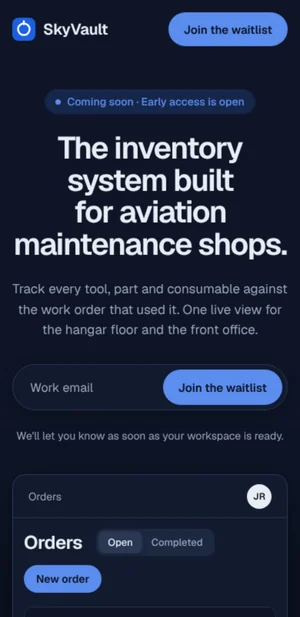
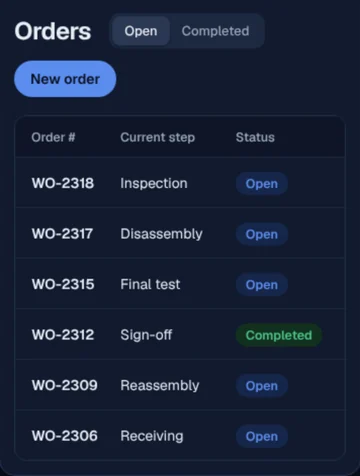
SkyVault card: product screens in a real phone frame, COMING SOON
- Shows the product, not the marketing headline: the Orders screen
  (shop sidebar, work-order table, live checkout toast) in the browser
  frame, and the app's phone Orders list in front of it.
- The phone is a real device frame: black bezel, rounded corners,
  dynamic island and a status bar that scales with the phone.
- Status: COMING SOON (matches the getskyvault.app homepage).

Claude-Session: https://claude.ai/code/session_01VC16346eymkJY2U4srLLXH

diff --git a/src/journey/Journey.css b/src/journey/Journey.css
@@ -474,9 +474,24 @@ body {
 
 /* real screenshots in the browser / phone frames */
 .j-shot-pair .j-mock-browser { display: flex; flex-direction: column; }
-.j-shot-pair .j-mock-browser img { flex: 1; min-height: 0; width: 100%; object-fit: cover; object-position: top; display: block; }
-.j-shot-pair .j-mock-phone { padding: 3px; top: 24%; }
-.j-shot-pair .j-mock-phone img { width: 100%; height: 100%; border-radius: 9px; object-fit: cover; object-position: top; display: block; }
+.j-shot-pair .j-mock-browser img { flex: 1; min-height: 0; width: 100%; object-fit: cover; object-position: left top; display: block; }
+/* a phone in a real device frame: black bezel, dynamic island, status bar */
+.j-device {
+  position: absolute; right: 7%; top: 18%; width: 25%; aspect-ratio: 9 / 19.5; box-sizing: border-box; padding: 3.5%;
+  border-radius: 18% / 8.5%; background: #05070b; container-type: inline-size;
+  box-shadow: 0 0 0 1px rgba(255, 255, 255, 0.16), 0 14px 32px rgba(0, 0, 0, 0.6);
+}
+.j-device-screen { position: relative; height: 100%; border-radius: 14% / 6.6%; overflow: hidden; background: #111a2e; display: flex; flex-direction: column; }
+.j-device-status {
+  position: relative; flex: none; height: 9%; display: flex; align-items: center; justify-content: space-between; padding: 0 9%;
+  font: 600 7cqw/1 var(--j-mono); color: #e8eefc; /* scales with the phone */
+}
+.j-device-island { position: absolute; left: 50%; top: 24%; width: 30%; height: 46%; transform: translateX(-50%); border-radius: 99px; background: #000; }
+.j-device-icons { display: flex; align-items: flex-end; gap: 0.8cqw; }
+.j-device-icons b { width: 1.6cqw; background: #e8eefc; border-radius: 1px; }
+.j-device-icons b:nth-child(1) { height: 2.4cqw; } .j-device-icons b:nth-child(2) { height: 3.6cqw; } .j-device-icons b:nth-child(3) { height: 4.8cqw; }
+/* the app's screen sits at the top at full width; the rest of the display is the app's empty background */
+.j-device-screen img { width: 100%; height: auto; display: block; }
 
 /* ---------- desk / contact ---------- */
 .j-desk { z-index: 13; transform-origin: 50% 50%; background: var(--j-bg); }

diff --git a/src/journey/journeyText.ts b/src/journey/journeyText.ts
@@ -59,7 +59,7 @@ export const services: Service[] = [
 
 // client work is described without naming clients; add `image` screenshots when ready
 export const work: WorkItem[] = [
-  { id: 'skyvault', title: 'SKYVAULT', blurb: 'Inventory and parts traceability for aviation repair stations, from receiving to release.', tags: ['AVIATION', 'WEB + MOBILE'], status: 'IN DEVELOPMENT', kind: 'both', accent: '#00E5FF', href: 'https://getskyvault.app', cta: 'GETSKYVAULT.APP', image: skyvaultShot, phoneImage: skyvaultPhone, tilt: 'rotateX(3deg) rotateY(6deg)', at: 0.70, offset: 0 },
+  { id: 'skyvault', title: 'SKYVAULT', blurb: 'Inventory and parts traceability for aviation repair stations, from receiving to release.', tags: ['AVIATION', 'WEB + MOBILE'], status: 'COMING SOON', kind: 'both', accent: '#00E5FF', href: 'https://getskyvault.app', cta: 'GETSKYVAULT.APP', image: skyvaultShot, phoneImage: skyvaultPhone, tilt: 'rotateX(3deg) rotateY(6deg)', at: 0.70, offset: 0 },
   { id: 'portfolio', title: 'FOUNDER PORTFOLIO', blurb: 'The engineering behind NovaEdge: open-source work, experiments and the founder\'s track record.', tags: ['PORTFOLIO', 'WEB'], status: 'LIVE', kind: 'web', accent: '#A98BFF', href: 'https://ktsierra.github.io/', cta: 'VISIT', image: portfolioShot, tilt: 'rotateX(2deg) rotateY(2deg)', at: 0.715, offset: 36 },
   { id: 'unifi', title: 'UNIFIED SITE OPS', blurb: 'End-to-end UniFi rollout: network, door access, intercom and VoIP, environmental sensors and camera security on one console.', tags: ['IT INFRASTRUCTURE', 'ON-SITE'], status: 'DEPLOYED', kind: 'network', accent: '#5CF2B8', cta: 'DETAILS ON REQUEST', tilt: 'rotateX(2deg) rotateY(-2deg)', at: 0.73, offset: 36 },
   { id: 'identity', title: 'MULTICLOUD GOVERNANCE', blurb: 'Links a client\'s AWS data to Microsoft identities and groups, with governance and dynamic workflows built in.', tags: ['MULTICLOUD', 'DATA GOVERNANCE'], status: 'IN PRODUCTION', kind: 'cloud', accent: '#FFB35C', cta: 'DETAILS ON REQUEST', tilt: 'rotateX(3deg) rotateY(-6deg)', at: 0.745, offset: 0 },

diff --git a/src/journey/WorkCard.tsx b/src/journey/WorkCard.tsx
@@ -101,7 +101,12 @@ const CardBody = ({ w, index, total }: { w: WorkItem; index: number; total: numb
         <div className="j-mock j-mock--both j-shot-pair">
           <div className="j-mock-grid" />
           <div className="j-mock-browser"><div className="j-mock-bar"><i /><i /><i /><span /></div><img src={w.image} alt={`${w.title} on the web`} loading="lazy" /></div>
-          <div className="j-mock-phone j-mock-phone--front"><img src={w.phoneImage} alt={`${w.title} on a phone`} loading="lazy" /></div>
+          <div className="j-device">
+            <div className="j-device-screen">
+              <div className="j-device-status"><span>9:41</span><i className="j-device-island" /><span className="j-device-icons"><b /><b /><b /></span></div>
+              <img src={w.phoneImage} alt={`${w.title} on a phone`} loading="lazy" />
+            </div>
+          </div>
         </div>
       ) : w.image ? <img src={w.image} alt={`${w.title} screenshot`} loading="lazy" /> : <MockShot kind={w.kind} seed={index + 1} />}
     </div>
